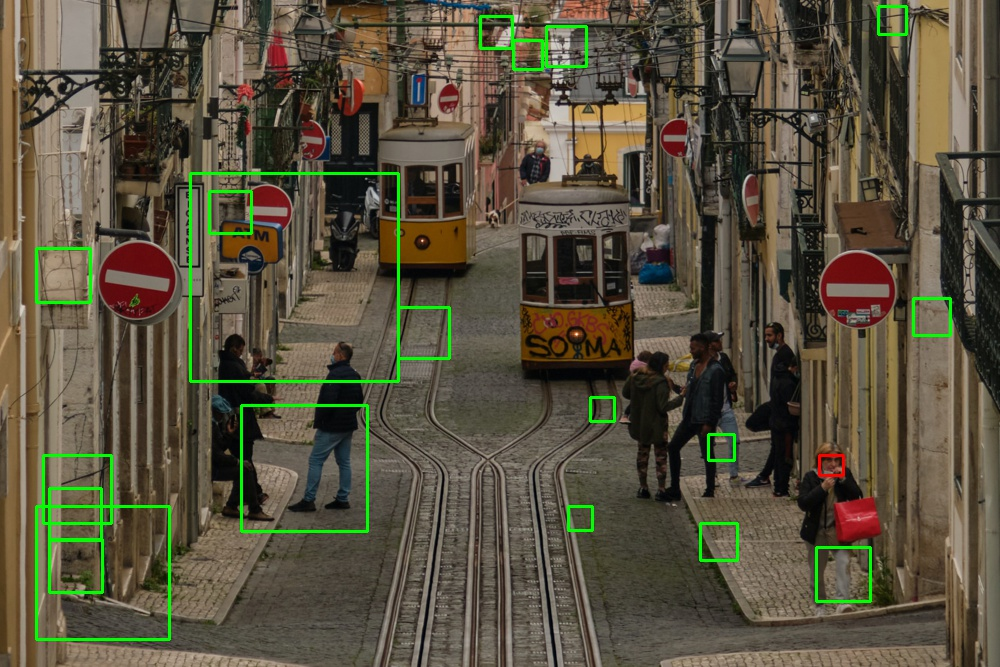
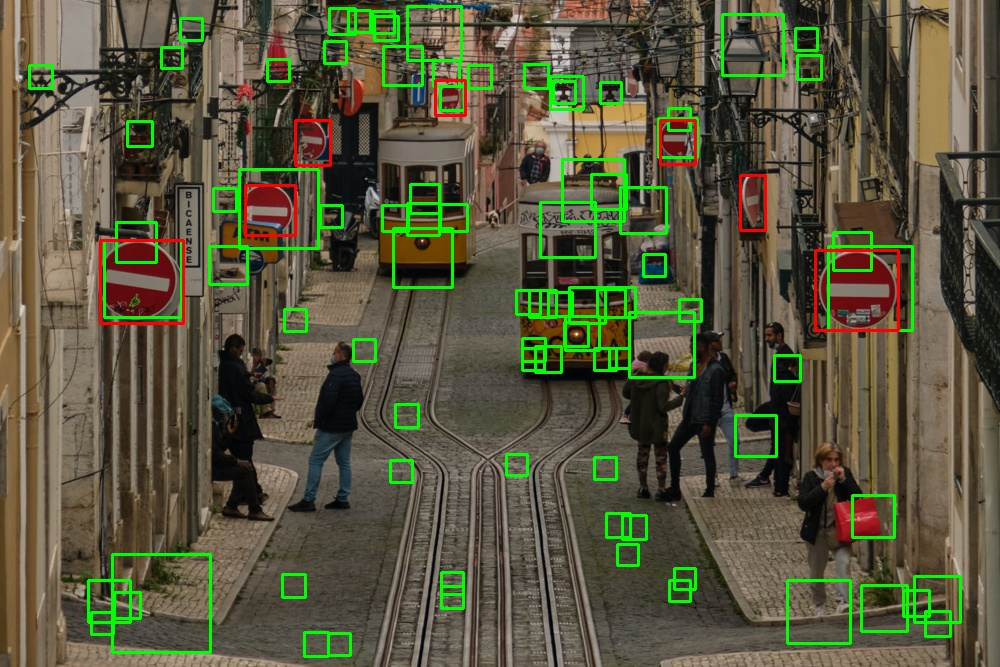
hough circles

diff --git a/noEntryDetector.cpp b/noEntryDetector.cpp
@@ -1,10 +1,3 @@
-/////////////////////////////////////////////////////////////////////////////
-//
-// COMS30121 - face.cpp
-//
-/////////////////////////////////////////////////////////////////////////////
-
-// header inclusion
 #include <stdio.h>
 #include "opencv2/objdetect/objdetect.hpp"
 #include "opencv2/opencv.hpp"
@@ -26,12 +19,22 @@ void showRectangles(vector<Rect> rectangles, Mat frame, Scalar color);
 
 int getImageIndex(string imageName);
 
-vector<Rect> getViolaFaces(Mat frame);
+vector<Rect> detectSigns(Mat frame);
 
 double getF1Score(vector<Rect> truth, vector<Rect> detected);
 
+void calculateSobel(Mat grayImage, Mat &sobelX, Mat &sobelY, Mat &magnitudeImage, Mat &directionImage);
+
+void threshold(Mat &grayImage, double thershold, double maxValue);
+
+vector<Vec3f> getHoughCircles(Mat magnitudeImage, Mat directionImage, Mat image);
+
+void filterNoEntrySigns(vector<Rect> &noEntrySigns, vector<Vec3f> houghCircles);
+
+
+
 /** Global variables */
-String cascade_name = "frontalface.xml";
+String cascade_name = "NoEntrycascade/cascade.xml";
 CascadeClassifier cascade;
 
 
@@ -39,8 +42,16 @@ CascadeClassifier cascade;
 int main( int argc, const char** argv ){
     // 1. Read Input Image
 
-    Mat frame = imread(argv[1], CV_LOAD_IMAGE_COLOR);
-    int imageIndex = getImageIndex(argv[1]);
+    for(int j = 0; j <= 15; j++){
+        char* fileToInput = new char[100];
+
+    sprintf(fileToInput, "No_entry/NoEntry%d.bmp", j);
+
+
+    //Mat frame = imread(argv[1], CV_LOAD_IMAGE_COLOR);
+    Mat frame = imread(fileToInput, CV_LOAD_IMAGE_COLOR);
+    int imageIndex = j;
+    //int imageIndex = getImageIndex(argv[1]);
 
     // 2. Load the Strong Classifier in a structure called `Cascade'
     if (!cascade.load(cascade_name)) {
@@ -49,24 +60,30 @@ int main( int argc, const char** argv ){
     }
 
     // 3. Detect Faces and Display Result
-    vector<Rect> violaFaces = getViolaFaces(frame);
-    showRectangles(violaFaces, frame, Scalar(0, 255, 0));
-    std::cout << "Number of Viola faces: " << violaFaces.size() << '\n';
-    for(int i = 0; i < violaFaces.size(); i++) std::cout << violaFaces[i] << ' ';
+    vector<Rect> signs = detectSigns(frame);
+    showRectangles(signs, frame, Scalar(0, 255, 0));
+    std::cout << "Number of Viola NoEntry signs: " << signs.size() << '\n';
+    for(int i = 0; i < signs.size(); i++) std::cout << signs[i] << ' ';
     std::cout << '\n';
 
     vector<Rect> groundTruthFaces = getGroundTruthFaces(imageIndex);
-    std::cout << "Number of Truth faces: " << groundTruthFaces.size() << '\n';
+    std::cout << "Number of Truth NoEntry signs: " << groundTruthFaces.size() << '\n';
     for(int i = 0; i < groundTruthFaces.size(); i++) std::cout << groundTruthFaces[i] << ' ';
     std::cout << '\n';
     showRectangles(groundTruthFaces, frame, Scalar(0,0,255));
 
-    std::cout << "\nF1 score: " << getF1Score(groundTruthFaces, violaFaces) << '\n';
+    std::cout << "\nF1 score: " << getF1Score(groundTruthFaces, signs) << '\n';
 
     // 4. Save Result Image
-    char *fileToOutput;
+    char* fileToOutput = new char[100];
+
     sprintf(fileToOutput, "allDetected/detected%d.jpg", imageIndex);
     imwrite(fileToOutput, frame);
+
+    delete(fileToInput);
+    delete(fileToOutput);
+    }
+
 
 	return 0;
 }
@@ -75,7 +92,7 @@ int getImageIndex(string imageName){
     string number = "";
 
     for(int i = 0; i < imageName.size(); i++){
-        if(isnumber(imageName[i]))
+        if(isdigit(imageName[i]))
             number.push_back(imageName[i]);
     }
 
@@ -105,40 +122,56 @@ vector<Rect> getRectangleFaces(std::istream& is){
 
 vector<Rect> getGroundTruthFaces(int imageIndex){
 
-    ifstream readFromFile("GroundTruth.csv");
+    ifstream readFromFile("GroundTruthNoEntry.csv");
 
     string read;
 
     vector<Rect> groundTruthRects;
 
     while(getline (readFromFile, read)){
-        if( isnumber(read[0]) && atoi(read.c_str()) == imageIndex ) {
+        if( isdigit(read[0]) && atoi(read.c_str()) == imageIndex ) {
             groundTruthRects = getRectangleFaces(readFromFile);
             break;
         }
     }
+
 
     return groundTruthRects;
 
 }
 
 /** @function detectAndDisplay */
-vector<Rect> getViolaFaces( Mat frame )
+vector<Rect> detectSigns( Mat image )
 {
-	std::vector<Rect> faces;
-	Mat frame_gray;
+	std::vector<Rect> noEntrySigns;
+	Mat grayImage;
 
 	// 1. Prepare Image by turning it into Grayscale and normalising lighting
-	cvtColor( frame, frame_gray, CV_BGR2GRAY );
-	equalizeHist( frame_gray, frame_gray );
+	cvtColor( image, grayImage, CV_BGR2GRAY );
+	equalizeHist( grayImage, grayImage );
 
 	// 2. Perform Viola-Jones Object Detection
-	cascade.detectMultiScale( frame_gray, faces, 1.1, 1, 0|CV_HAAR_SCALE_IMAGE, Size(10, 10), Size(300,300) );
+	cascade.detectMultiScale( grayImage, noEntrySigns, 1.03, 1, 0|CV_HAAR_SCALE_IMAGE, Size(10, 10), Size(300,300) );
+
+    GaussianBlur(grayImage, noEntrySigns, Size(3,3), 0, 0, BORDER_DEFAULT);
+
+    Mat sobelX, sobelY, magnitudeImage, directionImage;
+
+    calculateSobel(grayImage, sobelX, sobelY, magnitudeImage, directionImage);
+
+    threshold(grayImage, 120, 255);
+
+    vector<Vec3f> houghCircles = getHoughCircles(magnitudeImage, directionImage, image);
+
+    filterNoEntrySigns(noEntrySigns, houghCircles);
+
+
+
 
        // 3. Print number of Faces found
-	std::cout << faces.size() << std::endl;
+	std::cout << noEntrySigns.size() << std::endl;
 
-    return faces;
+    return noEntrySigns;
 
 }
 
@@ -185,4 +218,8 @@ void showRectangles(vector<Rect> rectangles, Mat frame, Scalar color){
     {
         rectangle(frame, Point(rectangles[i].x, rectangles[i].y), Point(rectangles[i].x + rectangles[i].width, rectangles[i].y + rectangles[i].height), color, 2);
     }
+}
+
+vector<Vec3f> getHoughCircles(Mat magnitudeImage, Mat directionImage, Mat image){
+    return vector<Vec3f>();
 }

diff --git a/face.cpp b/face.cpp
@@ -75,7 +75,7 @@ int getImageIndex(string imageName){
     string number = "";
 
     for(int i = 0; i < imageName.size(); i++){
-        if(isnumber(imageName[i]))
+        if(imageName[i] >= '0' && imageName[i] <= '9' )
             number.push_back(imageName[i]);
     }
 
@@ -112,7 +112,7 @@ vector<Rect> getGroundTruthFaces(int imageIndex){
     vector<Rect> groundTruthRects;
 
     while(getline (readFromFile, read)){
-        if( isnumber(read[0]) && atoi(read.c_str()) == imageIndex ) {
+        if( read[0] >= '0' && read[0] <= '9' && atoi(read.c_str()) == imageIndex ) {
             groundTruthRects = getRectangleFaces(readFromFile);
             break;
         }
